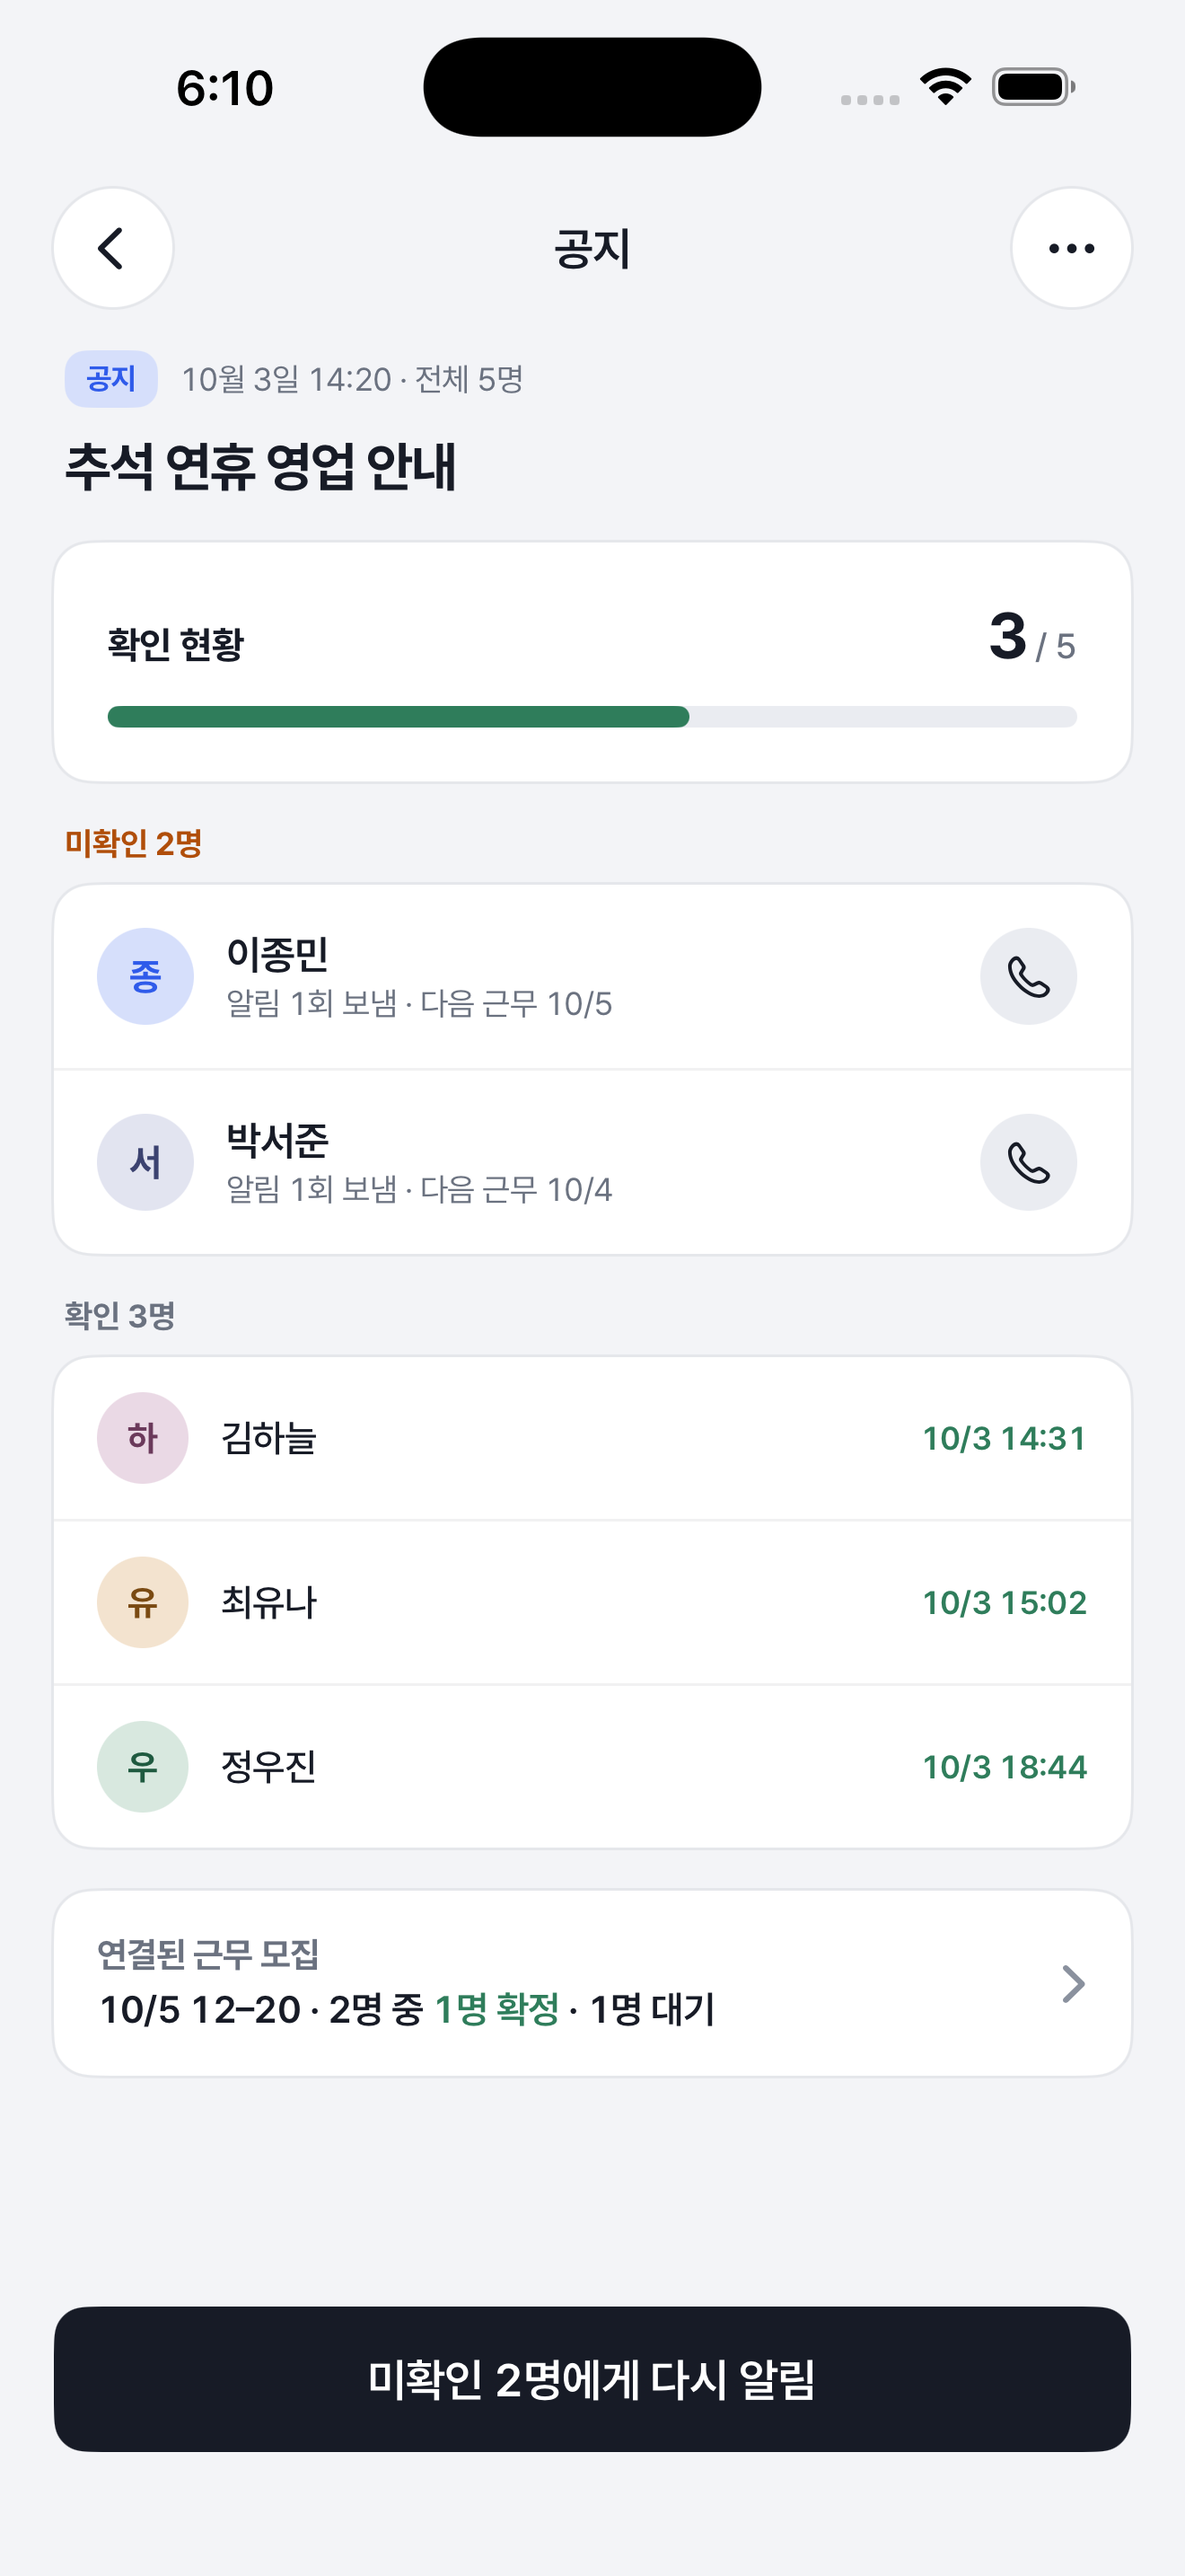
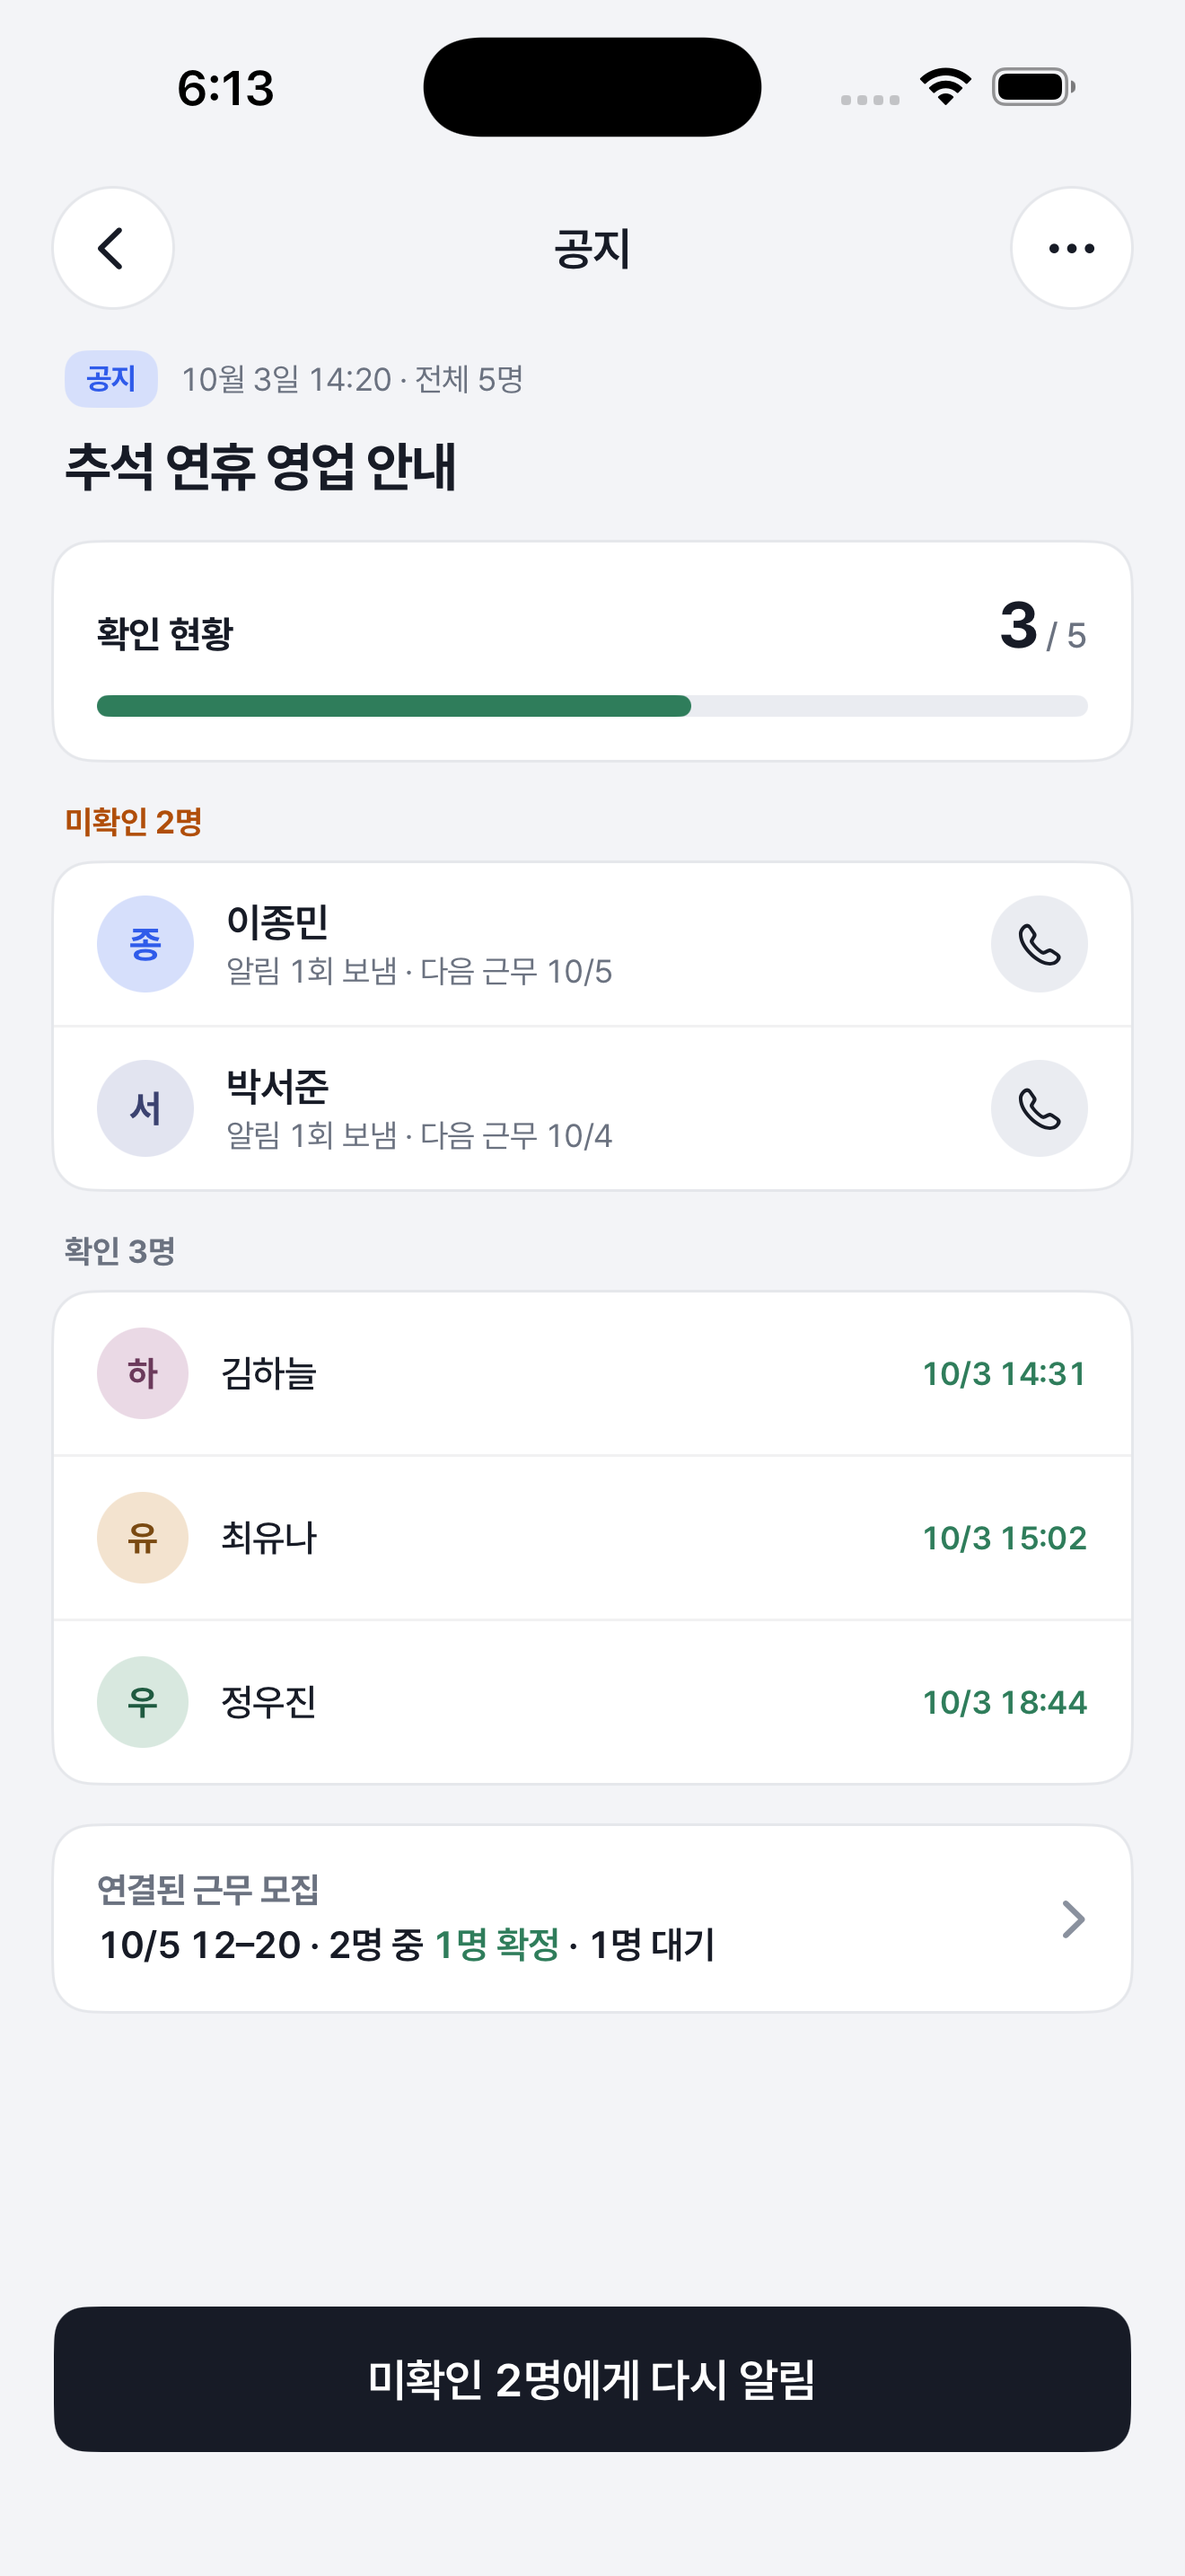
fix(comms): 공지 확인 현황(3d) QA 반영 — 행 높이 · 카드 여백
- 전화 버튼은 보이는 36 기준, 누름 영역만 44로 넓혀 행 높이를 원문에 맞춤
- 확인 현황 카드 안쪽 s20 → s16

Refs #115 · UI-IOS-3d

diff --git a/Pum/Pum/Features/Comms/NoticeReadStatus/NoticeReadStatusView.swift b/Pum/Pum/Features/Comms/NoticeReadStatus/NoticeReadStatusView.swift
@@ -78,7 +78,7 @@ struct NoticeReadStatusView: View {
                 }
                 bar
             }
-            .padding(PumTokens.Space.s20)
+            .padding(PumTokens.Space.s16) // 원문 카드 안쪽 약 18 → 카드 높이가 원문에 가까운 s16
         }
         .accessibilityElement(children: .ignore)
         .accessibilityLabel(Text("확인 현황, \(state.progressAccessibilityText)"))
@@ -128,8 +128,10 @@ struct NoticeReadStatusView: View {
                         .foregroundStyle(PumColor.textPrimary)
                         .frame(width: PumLayout.avatar, height: PumLayout.avatar)
                         .background(PumColor.surfaceFill, in: Circle())
-                        .frame(width: PumTokens.Size.tapMin, height: PumTokens.Size.tapMin)
+                        // 누름 영역만 44로 넓히고 행 높이는 보이는 36 기준(원문 행 높이 유지)
+                        .padding(PumTokens.Space.s4)
                         .contentShape(Rectangle())
+                        .padding(-PumTokens.Space.s4)
                 }
                 .buttonStyle(.plain)
                 .accessibilityLabel(Text("\(p.name)에게 전화"))
